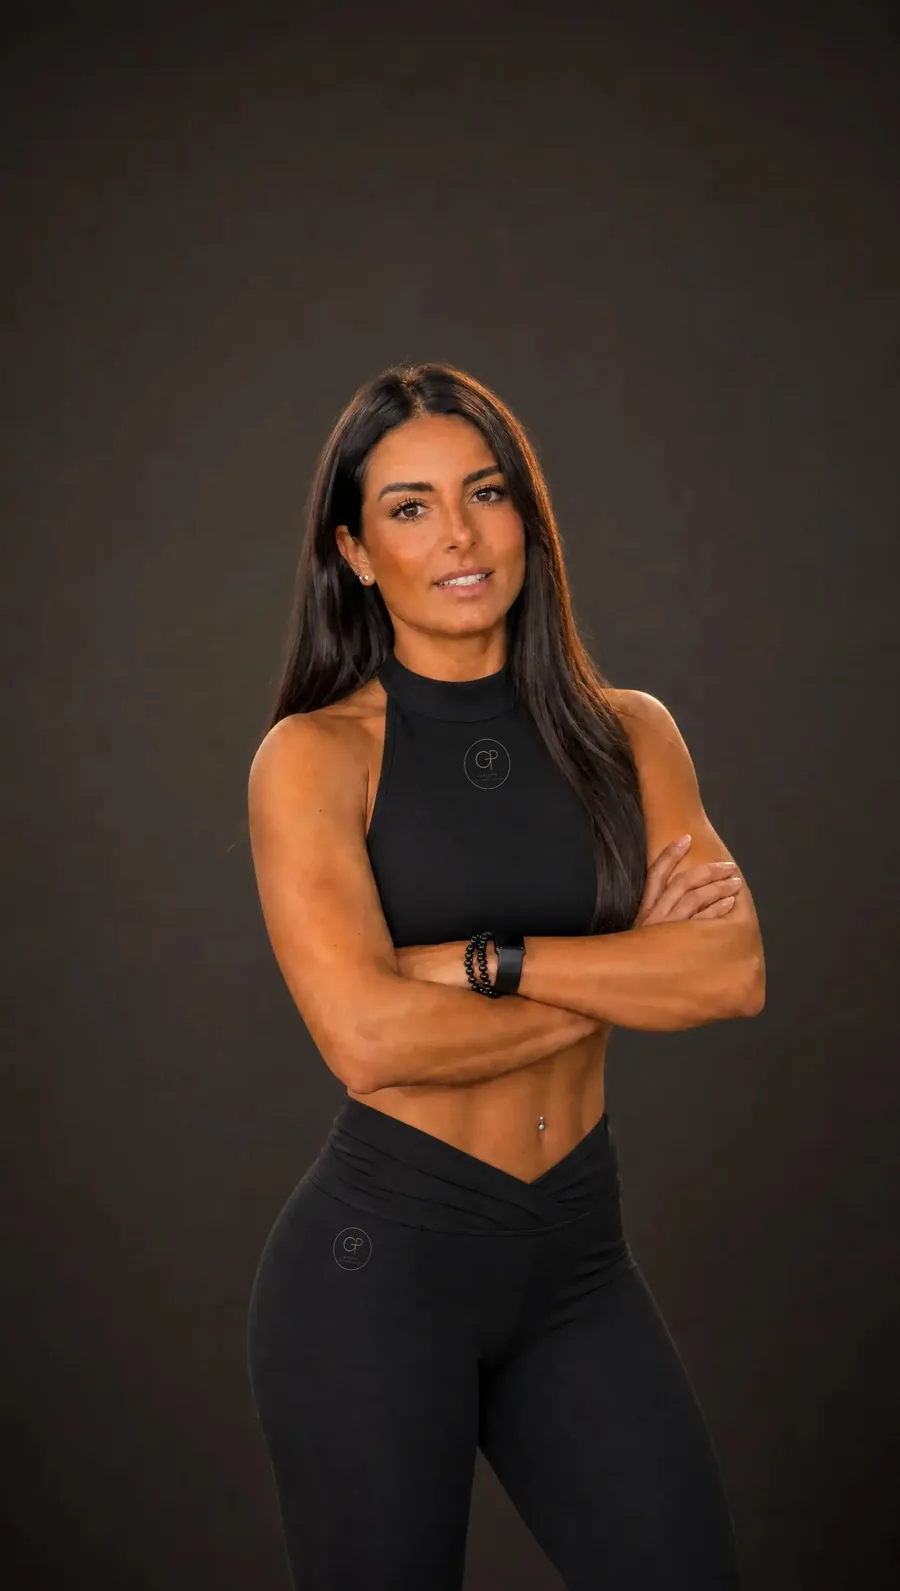
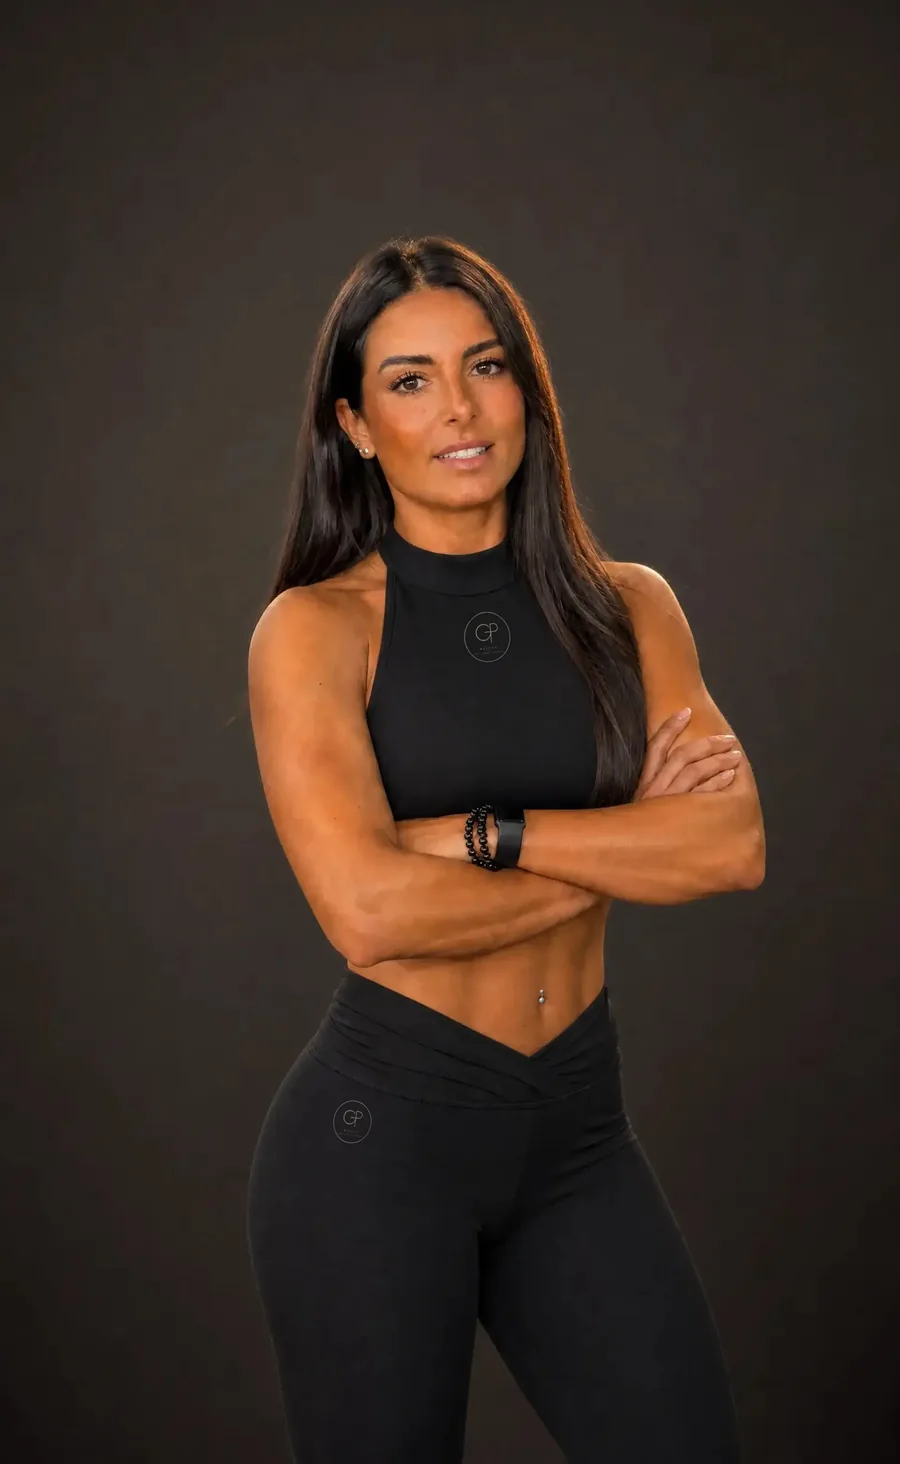
Hero mobile: ritaglio e altezza

diff --git a/chiaro/index.html b/chiaro/index.html
@@ -64,10 +64,10 @@
       </div>
       <figure class="hero-photo">
         <picture>
-          <source media="(max-width: 767px)" type="image/webp" srcset="../assets/hero/GP_hero_giorgia_mobile_studio-900.webp?v=7 900w, ../assets/hero/GP_hero_giorgia_mobile_studio.webp?v=7 1920w" sizes="100vw" width="1920" height="3395">
-          <source media="(max-width: 767px)" srcset="../assets/hero/GP_hero_giorgia_mobile_studio.jpg?v=7" width="1920" height="3395">
-          <source type="image/webp" srcset="../assets/hero/GP_hero_giorgia_desktop_studio-1280.webp?v=7 1280w, ../assets/hero/GP_hero_giorgia_desktop_studio.webp?v=7 1920w" sizes="100vw" width="1920" height="1086">
-          <img src="../assets/hero/GP_hero_giorgia_desktop_studio.jpg?v=7" width="1920" height="1086" alt="Giorgia Piras, personal trainer" fetchpriority="high" decoding="async">
+          <source media="(max-width: 767px)" type="image/webp" srcset="../assets/hero/GP_hero_giorgia_mobile_studio-900.webp?v=8 900w, ../assets/hero/GP_hero_giorgia_mobile_studio-1280.webp?v=8 1280w, ../assets/hero/GP_hero_giorgia_mobile_studio.webp?v=8 1920w" sizes="100vw" width="1920" height="3124">
+          <source media="(max-width: 767px)" srcset="../assets/hero/GP_hero_giorgia_mobile_studio.jpg?v=8" width="1920" height="3124">
+          <source type="image/webp" srcset="../assets/hero/GP_hero_giorgia_desktop_studio-1280.webp?v=8 1280w, ../assets/hero/GP_hero_giorgia_desktop_studio.webp?v=8 1920w" sizes="100vw" width="1920" height="1086">
+          <img src="../assets/hero/GP_hero_giorgia_desktop_studio.jpg?v=8" width="1920" height="1086" alt="Giorgia Piras, personal trainer" fetchpriority="high" decoding="async">
         </picture>
       </figure>
     </section>

diff --git a/index.html b/index.html
@@ -62,10 +62,10 @@
       </div>
       <figure class="hero-photo">
         <picture>
-          <source media="(max-width: 767px)" type="image/webp" srcset="assets/hero/GP_hero_giorgia_mobile_studio-900.webp?v=7 900w, assets/hero/GP_hero_giorgia_mobile_studio.webp?v=7 1920w" sizes="100vw" width="1920" height="3395">
-          <source media="(max-width: 767px)" srcset="assets/hero/GP_hero_giorgia_mobile_studio.jpg?v=7" width="1920" height="3395">
-          <source type="image/webp" srcset="assets/hero/GP_hero_giorgia_desktop_studio-1280.webp?v=7 1280w, assets/hero/GP_hero_giorgia_desktop_studio.webp?v=7 1920w" sizes="100vw" width="1920" height="1086">
-          <img src="assets/hero/GP_hero_giorgia_desktop_studio.jpg?v=7" width="1920" height="1086" alt="Giorgia Piras, personal trainer" fetchpriority="high" decoding="async">
+          <source media="(max-width: 767px)" type="image/webp" srcset="assets/hero/GP_hero_giorgia_mobile_studio-900.webp?v=8 900w, assets/hero/GP_hero_giorgia_mobile_studio-1280.webp?v=8 1280w, assets/hero/GP_hero_giorgia_mobile_studio.webp?v=8 1920w" sizes="100vw" width="1920" height="3124">
+          <source media="(max-width: 767px)" srcset="assets/hero/GP_hero_giorgia_mobile_studio.jpg?v=8" width="1920" height="3124">
+          <source type="image/webp" srcset="assets/hero/GP_hero_giorgia_desktop_studio-1280.webp?v=8 1280w, assets/hero/GP_hero_giorgia_desktop_studio.webp?v=8 1920w" sizes="100vw" width="1920" height="1086">
+          <img src="assets/hero/GP_hero_giorgia_desktop_studio.jpg?v=8" width="1920" height="1086" alt="Giorgia Piras, personal trainer" fetchpriority="high" decoding="async">
         </picture>
       </figure>
     </section>

diff --git a/styles.css b/styles.css
@@ -160,6 +160,8 @@ h1 { font-size: clamp(40px, 10.6vw, 84px); line-height: 1.02; text-wrap: balance
 .hero-photo img { width: 100%; height: 100%; object-fit: cover; object-position: 50% 20%; }
 .hero-photo::after { content: ''; position: absolute; inset: 0; pointer-events: none;
   background: linear-gradient(180deg, rgba(25, 23, 22, 0) 0%, rgba(25, 23, 22, 0) 70%, var(--nero) 100%); }
+/* phones: 80svh, so "Online coaching" and the start of the name show at the bottom of the first screen */
+@media (max-width: 767px) { .hero-photo { height: 80vh; height: 80svh; } }
 @media (min-width: 768px) { .hero-photo img { object-position: 75% 25%; } }  /* the 16:9 studio photo */
 .hero-copy { display: grid; gap: 18px; justify-items: start; }
 .hero .kicker { margin: 0; }

diff --git a/tools/build-pages.py b/tools/build-pages.py
@@ -206,10 +206,10 @@ home = f"""    <section class="hero" aria-labelledby="hero-title">
       </div>
       <figure class="hero-photo">
         <picture>
-          <source media="(max-width: 767px)" type="image/webp" srcset="assets/hero/GP_hero_giorgia_mobile_studio-900.webp?v=7 900w, assets/hero/GP_hero_giorgia_mobile_studio.webp?v=7 1920w" sizes="100vw" width="1920" height="3395">
-          <source media="(max-width: 767px)" srcset="assets/hero/GP_hero_giorgia_mobile_studio.jpg?v=7" width="1920" height="3395">
-          <source type="image/webp" srcset="assets/hero/GP_hero_giorgia_desktop_studio-1280.webp?v=7 1280w, assets/hero/GP_hero_giorgia_desktop_studio.webp?v=7 1920w" sizes="100vw" width="1920" height="1086">
-          <img src="assets/hero/GP_hero_giorgia_desktop_studio.jpg?v=7" width="1920" height="1086" alt="Giorgia Piras, personal trainer" fetchpriority="high" decoding="async">
+          <source media="(max-width: 767px)" type="image/webp" srcset="assets/hero/GP_hero_giorgia_mobile_studio-900.webp?v=8 900w, assets/hero/GP_hero_giorgia_mobile_studio-1280.webp?v=8 1280w, assets/hero/GP_hero_giorgia_mobile_studio.webp?v=8 1920w" sizes="100vw" width="1920" height="3124">
+          <source media="(max-width: 767px)" srcset="assets/hero/GP_hero_giorgia_mobile_studio.jpg?v=8" width="1920" height="3124">
+          <source type="image/webp" srcset="assets/hero/GP_hero_giorgia_desktop_studio-1280.webp?v=8 1280w, assets/hero/GP_hero_giorgia_desktop_studio.webp?v=8 1920w" sizes="100vw" width="1920" height="1086">
+          <img src="assets/hero/GP_hero_giorgia_desktop_studio.jpg?v=8" width="1920" height="1086" alt="Giorgia Piras, personal trainer" fetchpriority="high" decoding="async">
         </picture>
       </figure>
     </section>

diff --git a/DESIGN.md b/DESIGN.md
@@ -35,10 +35,10 @@ Forma: bottoni a pillola 52px (primario pietra/nero, secondario bordo bronzo/tes
 Motion: accensione dei neon USP (~600ms, una volta), poi la riga rossa "ronza" (tre cali ogni 4,5s, mai spenta) e fa un glitch di 1s al passaggio del mouse, al tocco e, sui telefoni, ogni volta che entra nello schermo (max 3 lampi/s, WCAG 2.3.1); i pilastri del metodo si aprono come "Cosa include" (stessa transizione 220ms); le tappe del ciclo mostrano una riga sotto (nessuna animazione), "Cosa include" (altezza + opacità, 220ms, `cubic-bezier(0.23,1,0.32,1)`), `scale(0.97)` su :active (160ms). Nessuno scroll-reveal; tutto il testo visibile senza JS.
 
 ## 2a. Hero a tutto schermo, foto da studio (ottobre 2026)
-Foto di Giorgia in studio su fondo neutro scuro (`assets/hero/`, `?v=7`): verticale 9:16 sotto 768px (`GP_hero_giorgia_mobile_studio`), 16:9 da 768px (`GP_hero_giorgia_desktop_studio`); WebP q82 con versioni leggere (900w / 1280w), JPG di riserva, `fetchpriority="high"` (è l'LCP). Le foto della palestra restano in "Dove nasce il metodo" e in Chi sono.
+Foto di Giorgia in studio su fondo neutro scuro (`assets/hero/`, `?v=8`): verticale (1920×3124) sotto 768px (`GP_hero_giorgia_mobile_studio`), 16:9 da 768px (`GP_hero_giorgia_desktop_studio`); WebP q82 con versioni leggere (mobile 900w/1280w, desktop 1280w), JPG di riserva, `fetchpriority="high"` (è l'LCP). Le foto della palestra restano in "Dove nasce il metodo" e in Chi sono.
 - La foto parte dal bordo superiore (sotto la barra di stato: `viewport-fit=cover`, header con `env(safe-area-inset-top)`); header trasparente sopra la foto, gradiente #191716 55% → trasparente in 140px; scorre via con la pagina.
 - Sotto 768px l'header mostra solo logo e menu.
-- Sotto 900px: foto alta 100svh (`object-position: 50% 20%`, 75% 25% da 768px), che sfuma in basso nel colore dell'hero; poi il testo.
+- Sotto 768px: foto alta 80svh (`object-position: 50% 20%`), così in fondo al primo schermo si vedono "Online coaching" e l'inizio del nome; 768-899px: 100svh (`75% 25%`). La foto sfuma in basso nel colore dell'hero; poi il testo.
 - Da 900px: foto a tutta larghezza e 100svh (`75% 25%`), testo a sinistra sul fondo scuro dello studio, velo leggero (35%) solo sotto il testo. In /chiaro/: testo su avorio a sinistra, foto a destra (55%, `80% 25%`) con bordo netto.
 - `theme-color` #191716 (scuro) / #EFE9E2 (chiaro), `apple-mobile-web-app-status-bar-style` black-translucent.
 Testo: "Giorgia Piras", "Personal trainer a Roma", filetto bronzo, una frase, bottone WhatsApp, riga Weal House.
